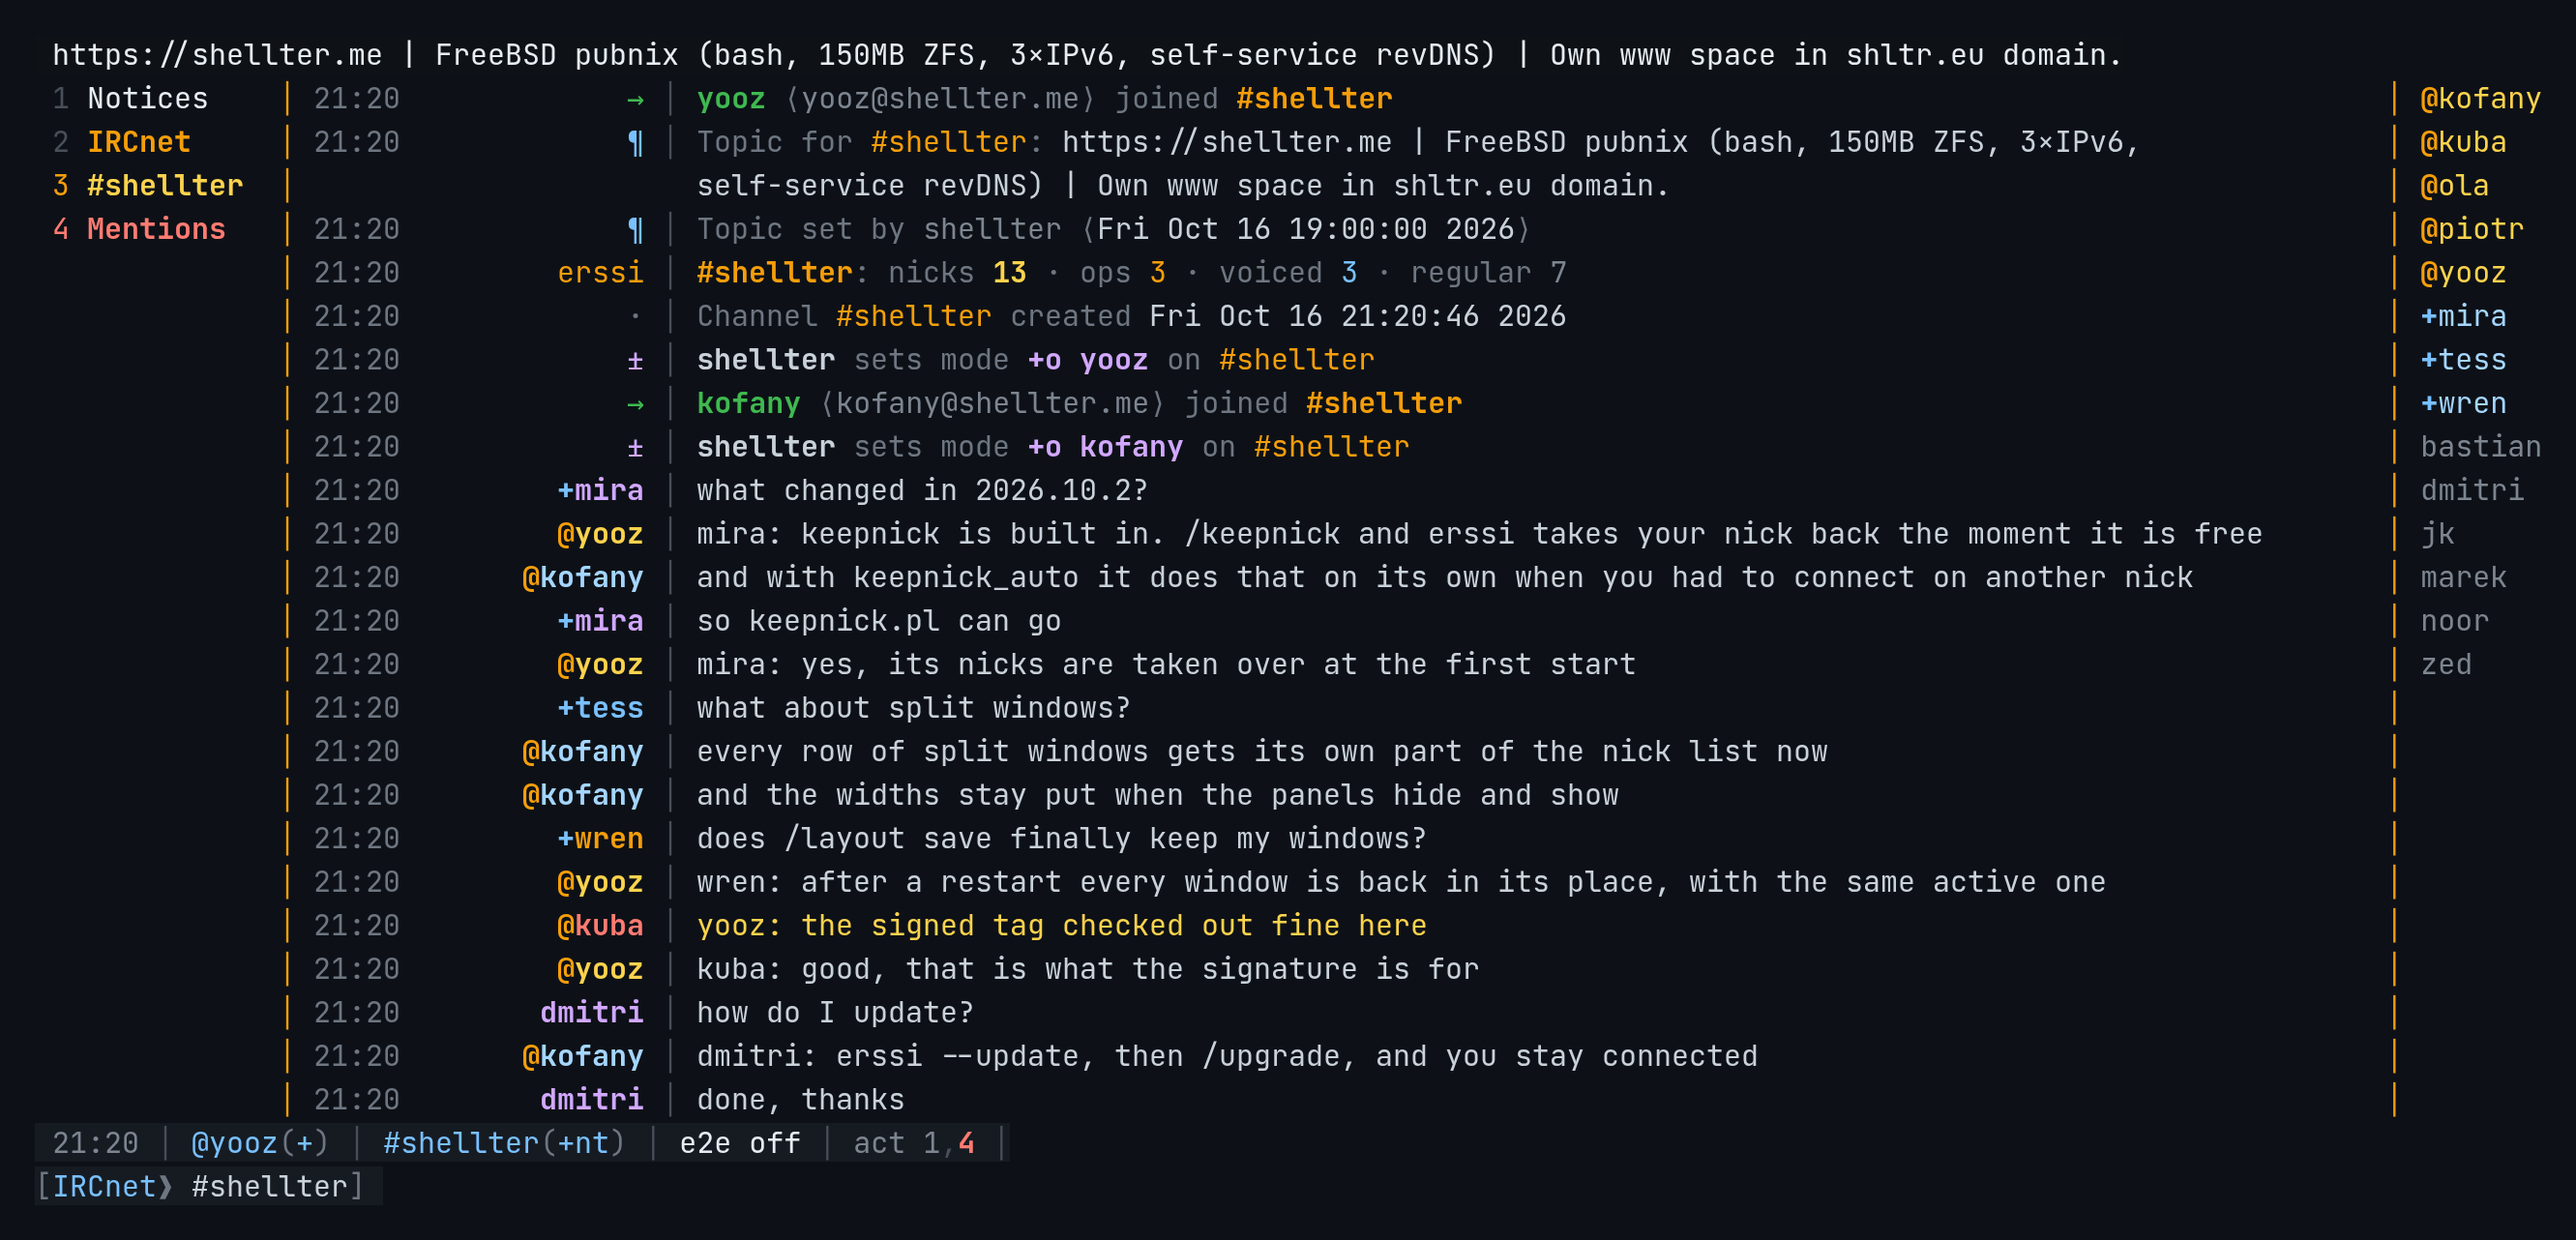
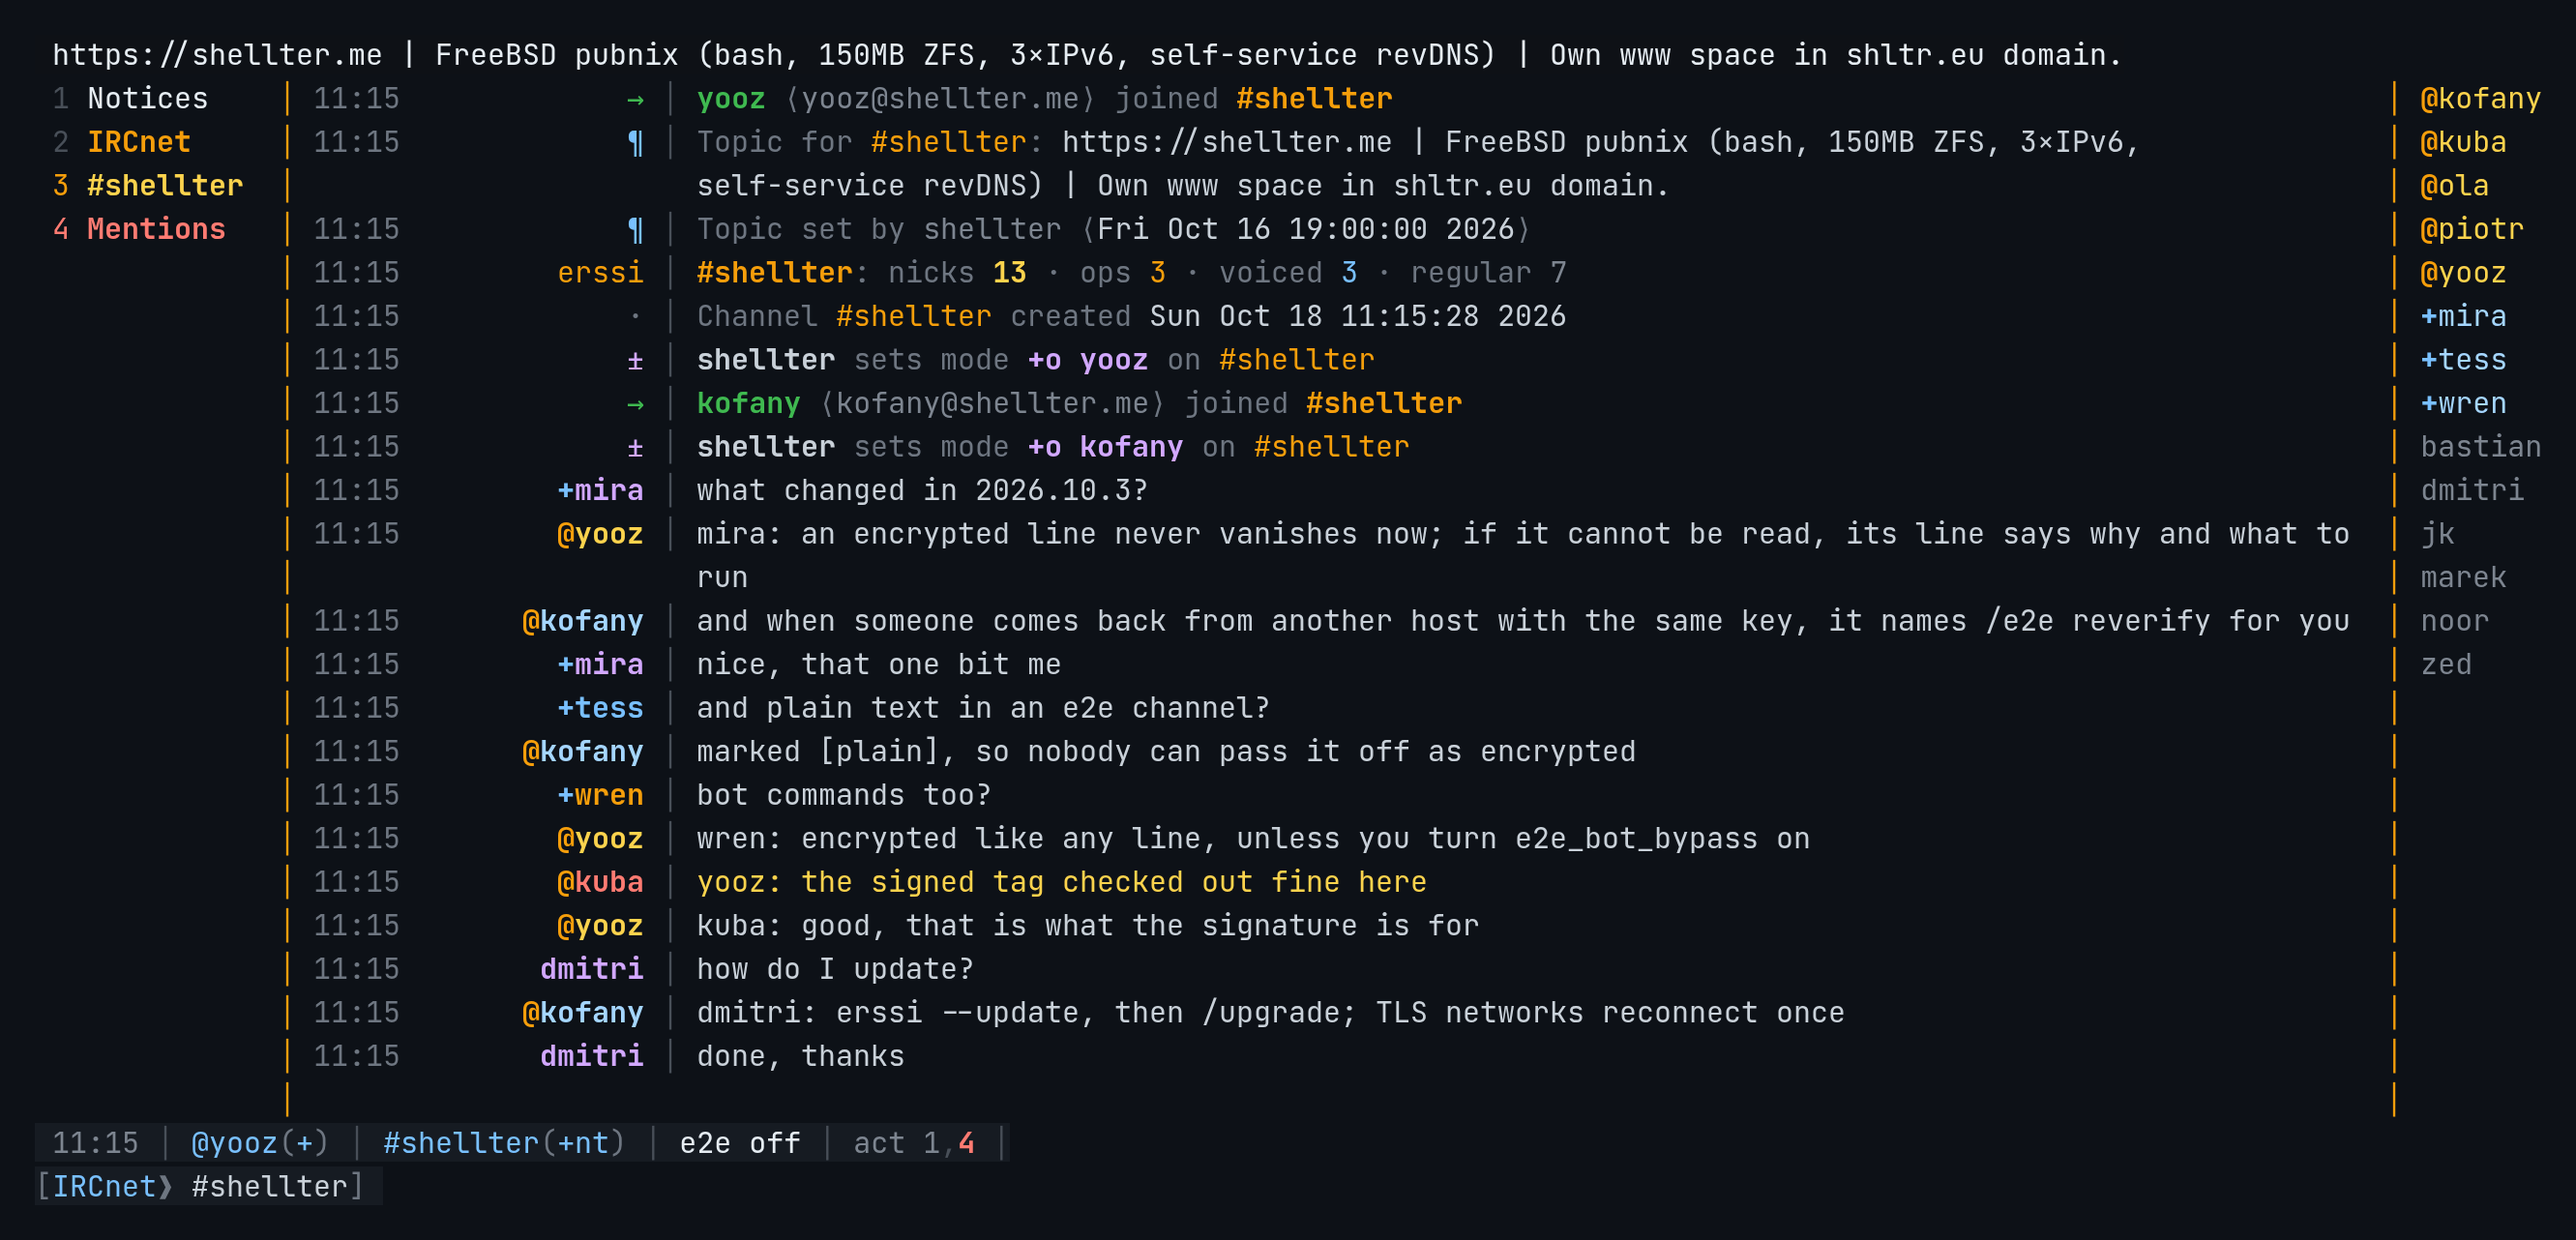
Page: /upgrade reconnects TLS connections; 2026.10.3 screenshots
The update step said /upgrade loads the new version without leaving IRC;
TLS connections reconnect once. The screenshots show 2026.10.3.

diff --git a/index.html b/index.html
@@ -358,7 +358,7 @@ footer a { color: var(--muted); }
           <p class="lead">Update from a running shell whenever a release comes out.</p>
           <pre class="block">erssi --check-update   <span class="c"># is a newer release available?</span>
 erssi --update         <span class="c"># build, test and install it</span></pre>
-          <p>In erssi, <code>/upgrade</code> then loads the new version without leaving IRC.</p>
+          <p>In erssi, <code>/upgrade</code> then loads the new version and keeps your windows and channels. Connections over TLS cannot be handed to the new process, so they reconnect once.</p>
         </li>
       </ol>
     </div>
